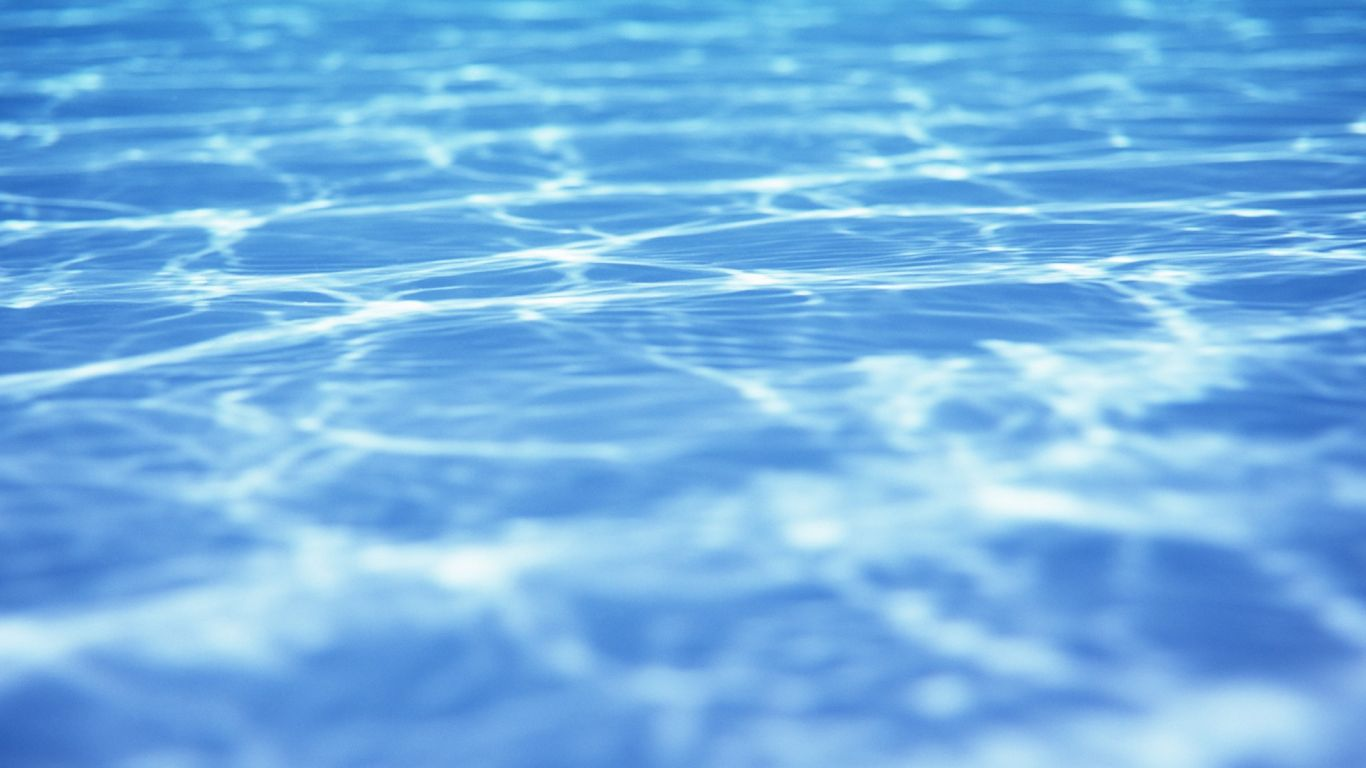
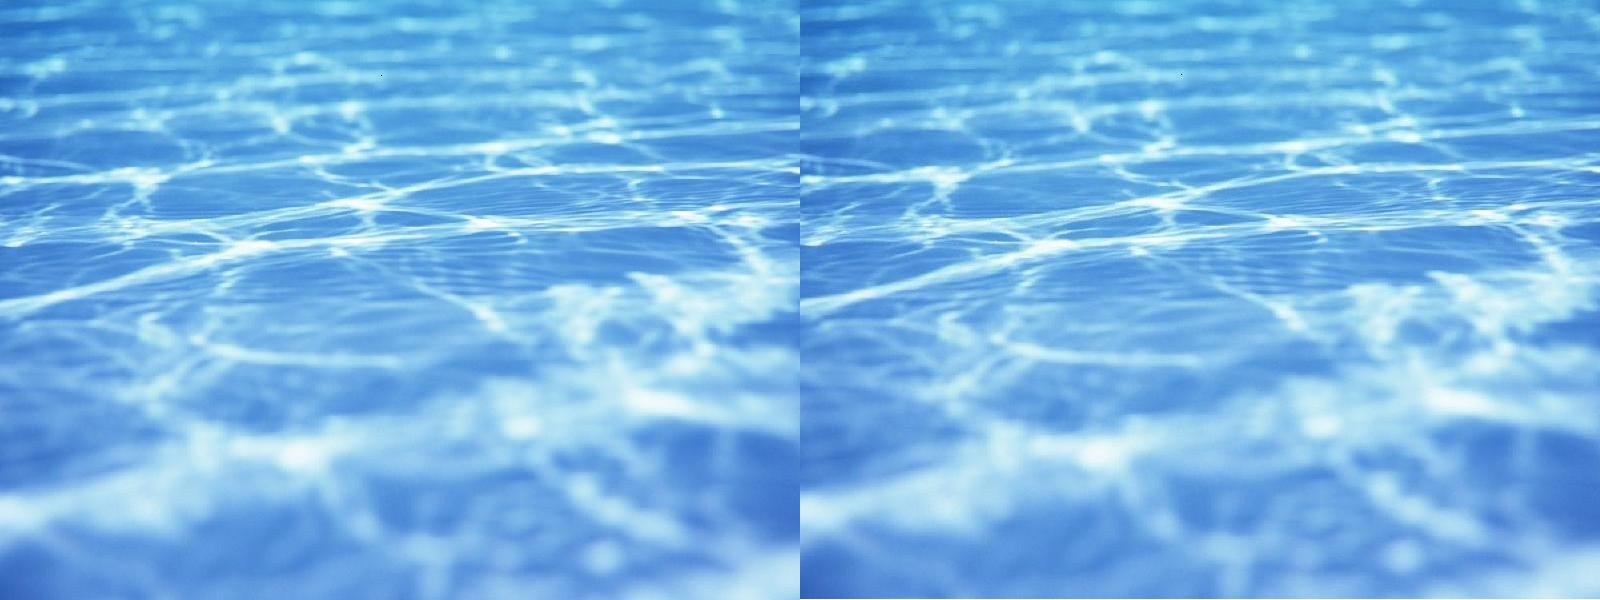
Possible in the lateral motion of background

diff --git a/lib/map.rb b/lib/map.rb
@@ -5,19 +5,23 @@ class Map
 
   def initialize
     @scroll_speed = 1 # マップのスクロールスピード
-    @map_img = Image.load("./images/sea.jpg")
-    @map_x = 0
-    @map_y = @map_img.height - Window.height
+    @map_img = Image.load("./images/sea.jpg") #海の背景画像の設定
+
+    @map_x = @map_img.width - Window.width
+    @map_y = 0
     update_view_port
+
+    #海岸の画像の設定
+    #@land.img = Sprite.new(0, 0, Image.load("./images/beach.jpg"))
   end
 
   def update_view_port
-    if @map_img.height - @map_y >= Window.height
+    if @map_img.width - @map_x >= Window.width
       @view_port = @map_img.slice(@map_x, @map_y, Window.width, Window.height)
       @view_port_rest = nil
     else
-      @view_port = @map_img.slice(@map_x, @map_y, Window.width, @map_img.height - @map_y)
-      @view_port_rest = @map_img.slice(@map_x, 0, Window.width, Window.height - (@map_img.height - @map_y))
+      @view_port = @map_img.slice(@map_x, @map_y, @map_img.width - @map_x, Window.height)
+      @view_port_rest = @map_img.slice(0, @map_y, Window.width - (@map_img.width - @map_x), Window.height)
     end
 
     # 次のフレーム描画時に、現在のview_portオブジェクトを破棄する指定
@@ -28,15 +32,15 @@ class Map
   end
 
   def scroll
-    @map_y -= @scroll_speed
-    @map_y = @map_img.height - @scroll_speed if @map_y < 0
+    @map_x -= @scroll_speed
+    @map_x = @map_img.width - @scroll_speed if @map_x < 0
     update_view_port
   end
 
   def draw
     Window.draw(0, 0, @view_port)
     if @view_port_rest
-      Window.draw(0, @view_port.height, @view_port_rest)
+      Window.draw(@view_port.width, 0, @view_port_rest)
     end
 
     Sprite.update(@map_objects)

diff --git a/lib/map_obj.rb b/lib/map_obj.rb
@@ -4,16 +4,16 @@ class MapObj < Sprite
   attr_accessor :map, :abs_x, :abs_y
 
   def update
-    if @map.map_img.height - @map.map_y >= Window.height
-      self.y = @abs_y - @map.map_y
+    if @map.map_img.width - @map.map_x >= Window.width
+      self.x = @abs_x - @map.map_x
     else
-      if (@map.map_y .. @map.map_img.height).include?(@abs_y)
-        self.y = @abs_y - @map.map_y
+      if (@map.map_x .. @map.map_img.width).include?(@abs_x)
+        self.x = @abs_x - @map.map_x
       else
-        self.y = @abs_y + @map.view_port.height
+        self.x = @abs_x + @map.view_port.width
       end
     end
-    self.x = @abs_x - @map.map_x
+    self.y = @abs_y - @map.map_y
   end
 
   def hit(obj)

diff --git a/lib/director.rb b/lib/director.rb
@@ -33,6 +33,7 @@ class Director
   def play
     @map.scroll
     @map.draw
+    #@land.draw
     Sprite.update(@enemies)
     Sprite.draw(@enemies)
     Sprite.clean(@enemies)
